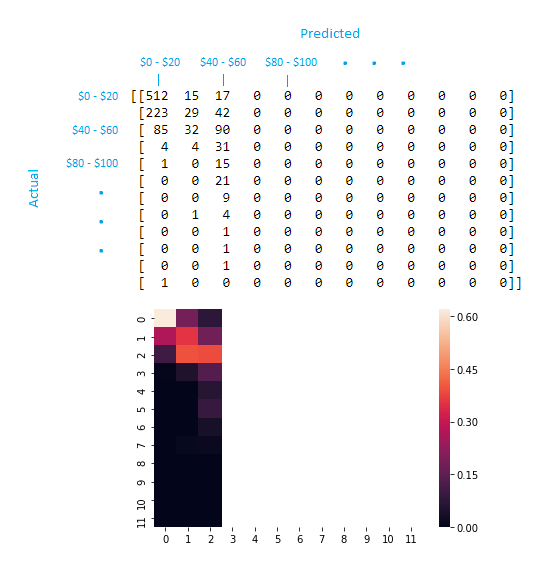
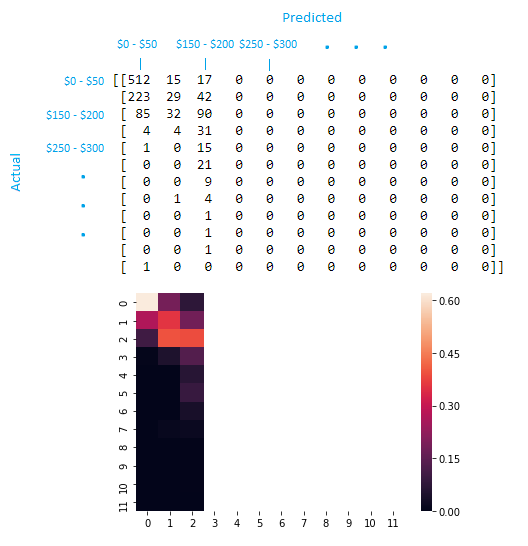
corrected confusion matrix price ranges

diff --git a/investigations.py b/investigations.py
@@ -10,7 +10,7 @@ def generate_kml_for(df, output_file_name):
     :param df: The data frame with coordinate data
     :return:
     """
-    
+
     # This constructs the KML document from the CSV file.
     kmlDoc = xml.dom.minidom.Document()
 

diff --git a/docs/Readme.md b/docs/Readme.md
@@ -124,7 +124,7 @@ I used machine learning to model the relationship between the inputs and output.
 
 ![](../viz/jupyter/confusion_matrix_labelled.png)
 
-The confusion matrix above is a way to quantify the merit of a model. It basically shows how many times the trained model predicted the price correctly vs. incorrectly. For eg. the value at the third row and third column is 90. This means that, there are 90 instances where the model correctly predicted that a property is between $40-$60. The value at the fifth row and third column is 15. This means that in 15 instances the model predicted a price of $40-$60 but it was actually $80-$100. 
+The confusion matrix above is a way to quantify the merit of a model. It basically shows how many times the trained model predicted the price correctly vs. incorrectly. For eg. the value at the third row and third column is 90. This means that, there are 90 instances where the model correctly predicted that a property is between $150-$200. The value at the fifth row and third column is 15. This means that in 15 instances the model predicted a price of $150-$200 but it was actually $250-$300. 
 
 This confusion matrix is not as good as I was expecting it to be but it was the best I could get despite spending some time tinkering with the training parameters. Upon further research, I came across why this was.
 
